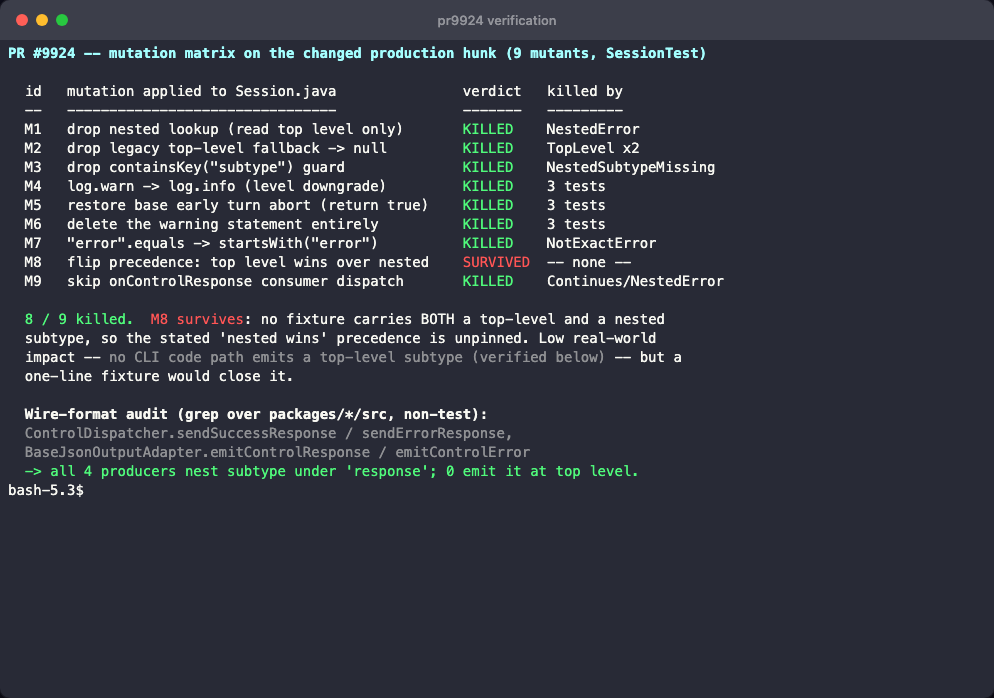
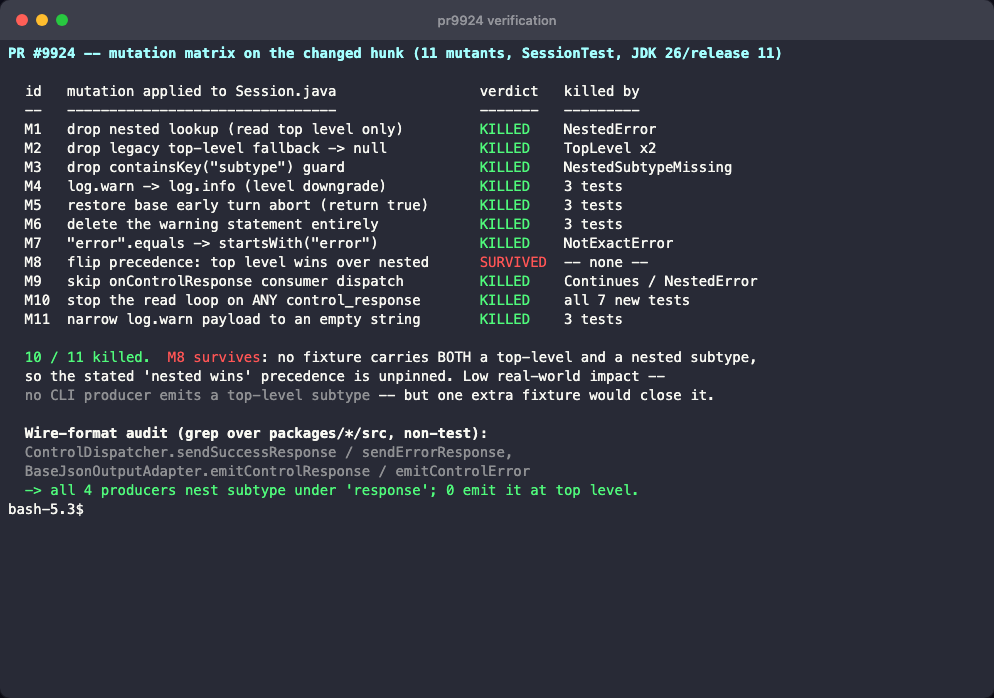
docs: extend PR #9924 evidence with M10/M11 and the standing-thread audit

Changed region(s): [[0.0, 0.1203, 0.7485, 0.7521], [0.3742, 0.0602, 0.7797, 0.0903]]

diff --git a/rig/mutate.py b/rig/mutate.py
@@ -49,6 +49,12 @@ elif mut == "M9": # never dispatch onControlResponse consumer (control-arm sanit
     rep("""                    MyConcurrentUtils.runAndWait(() -> sessionEventConsumers.onControlResponse(this, controlResponse),
                             Optional.ofNullable(sessionEventConsumers.onControlResponseTimeout(this, controlResponse)).orElse(defaultEventTimeout));
                     if ("error\"""", """                    if ("error\"""")
+elif mut == "M10": # always stop the read loop on any control_response (thread OPEN#3)
+    rep("""                    return false;
+                } else if ("control_request".equals(messageType)) {""", """                    return true;
+                } else if ("control_request".equals(messageType)) {""")
+elif mut == "M11": # narrow the warn payload away (thread OPEN#9)
+    rep("""log.warn("control_response error: {}", jsonObject.toJSONString());""", """log.warn("control_response error: {}", "");""")
 else:
     raise SystemExit("unknown mutant " + mut)
 SRC.write_text(s)

diff --git a/README.md b/README.md
@@ -8,7 +8,8 @@ Host: macOS 26.6.2 (arm64), Zulu JDK 26 / `maven.compiler.release=11`, Maven 3.9
 | --- | --- |
 | `01-real-stack-ab.png` | Bundled qwen CLI 0.22.3 driven through the Java SDK `ProcessTransport`; the real `control_response` error on the wire; base silent vs head WARN |
 | `02-test-discrimination.png` | `mvn clean test` on head (141 pass) and the revert-hunk run (PR tests + base `Session.java` → 3 failures) |
-| `03-mutation-matrix.png` | 9 mutants against the changed hunk: 8 killed, M8 (precedence flip) survived |
+| `03-mutation-matrix.png` | 11 mutants against the changed hunk: 10 killed, M8 (precedence flip) survived |
+| `04-standing-threads.png` | The 9 unresolved review threads re-checked against head `15a5fb53b5` |
 
 ## logs/
 Raw captures — `wire-*.txt` are byte-level SEND/RECV transcripts through the real CLI process.
